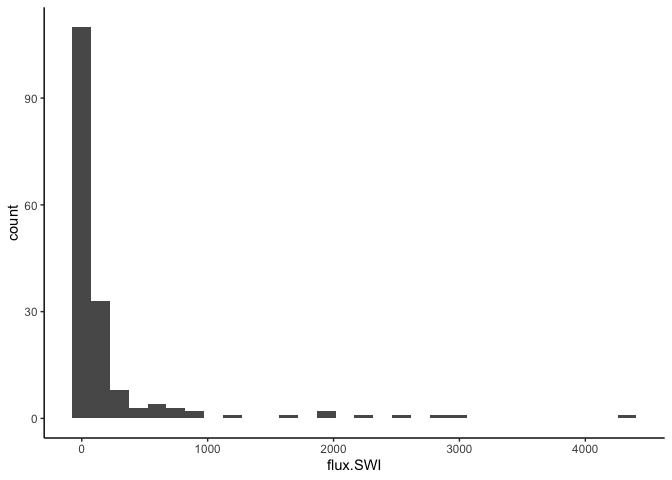
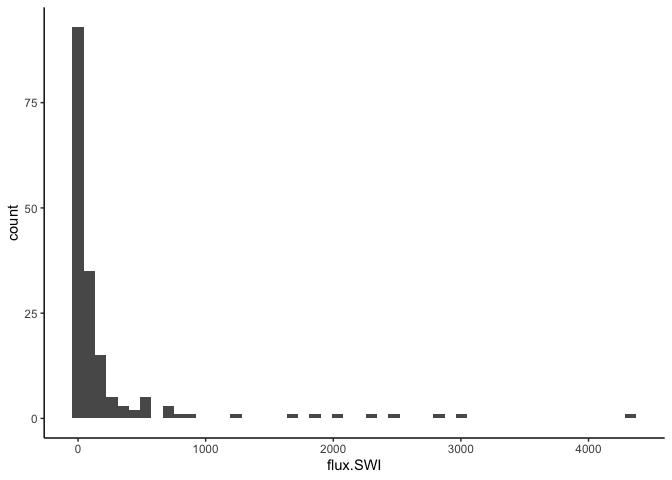
update plots

diff --git a/baltic_CH4_predictors.md b/baltic_CH4_predictors.md
@@ -115,10 +115,8 @@ values:
 
 ``` r
 ggplot(d, aes(x=flux.SWI)) + 
-  geom_histogram()
+  geom_histogram(bins=50)
 ```
-
-    `stat_bin()` using `bins = 30`. Pick better value with `binwidth`.
 
 ![](baltic_CH4_predictors_files/figure-gfm/unnamed-chunk-4-1.png)
 
@@ -133,7 +131,7 @@ I adjusted them to half the log_10 of the minimum flux value.
 
 ``` r
 ggplot(d, aes(x=log10.flux.SWI)) + 
-  geom_histogram()
+  geom_histogram(bins=50)
 ```
 
 ![](baltic_CH4_predictors_files/figure-gfm/unnamed-chunk-5-1.png)
